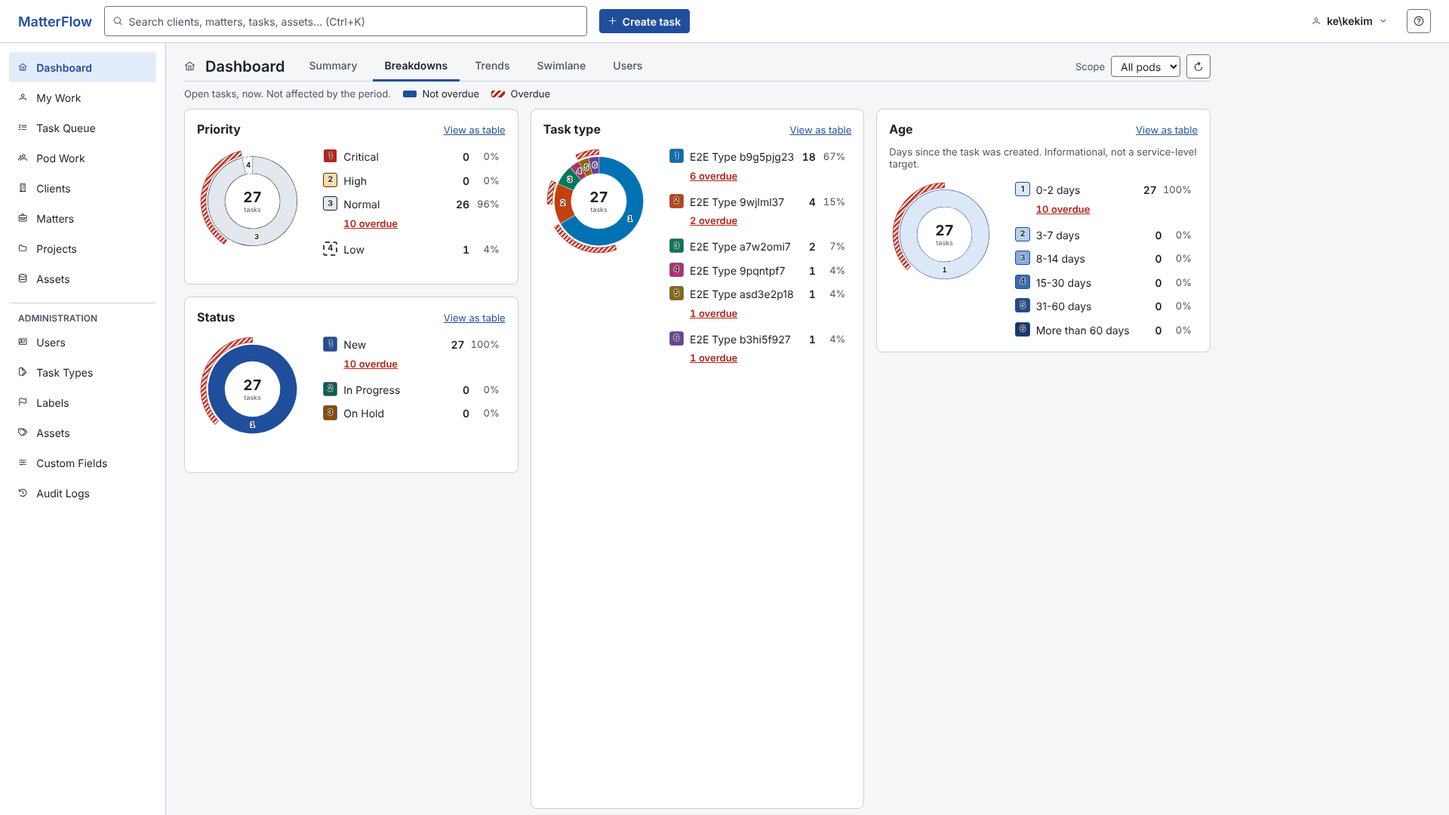
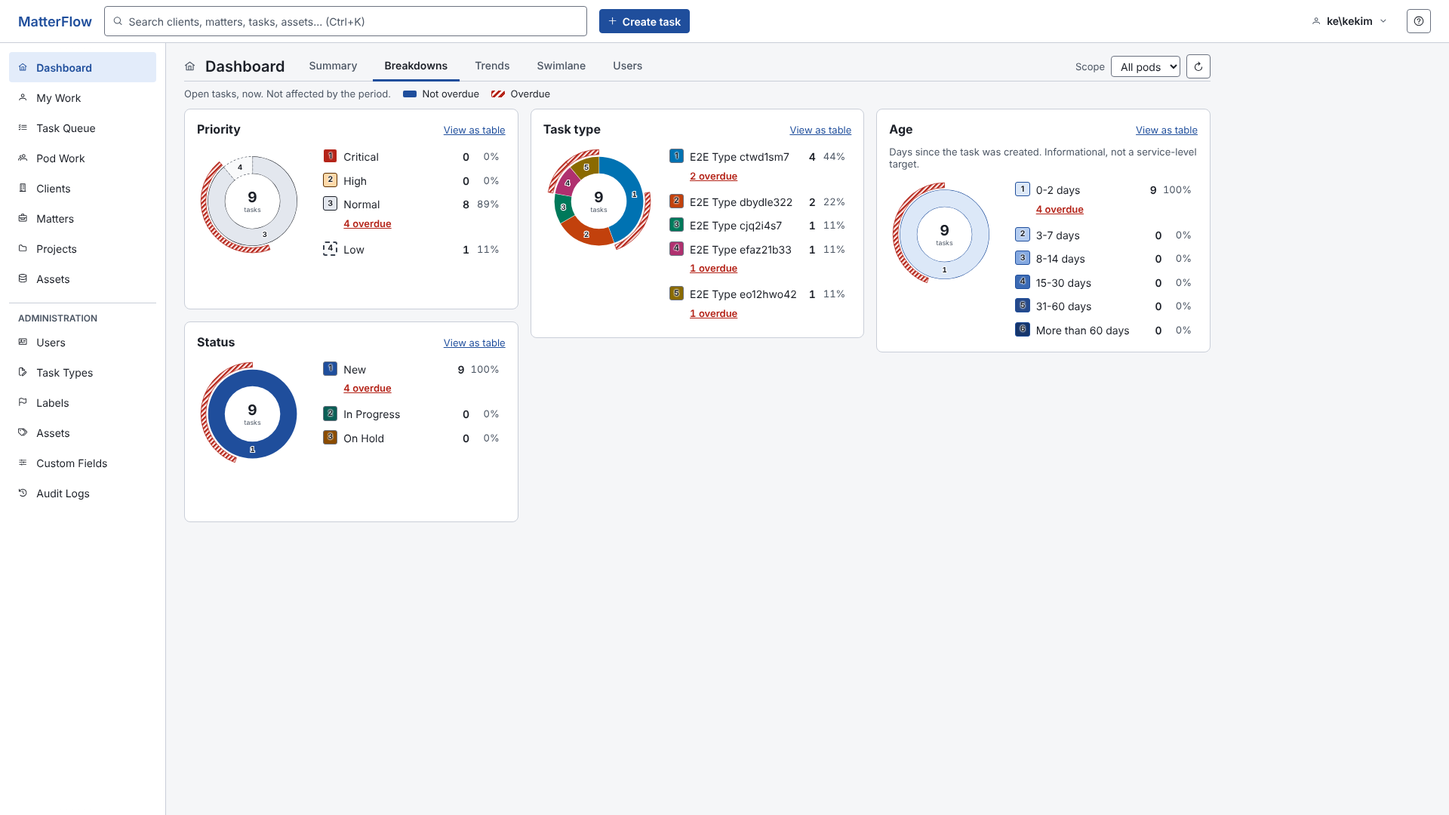
fix(dashboard): Breakdowns Task type card fits its list, pie caption no longer moves the donut (#109 #110 #111 #112 #113 #137)
The Task type card on a wide tab keeps its natural height and is capped at the visible tab height (100cqh of the
scroll region, a size container only in the three-column layout); only its list scrolls inside, under a pinned
title. Priority and Status are not influenced by the list length. The pie caption area is now reserved (three
lines, width independent of its text), so the donut and legend are pixel-stable on hover, focus and leave.
E2E: short and long list heights, unchanged Priority/Status positions, two/one column, pie stability at 1366,
1920 and 375 px.

In plain words: the Task type box on the Breakdowns tab is now only as tall as its list instead of always filling
the screen, and if the list is longer than the screen the box stops at the bottom of the tab and the list scrolls
inside it. In the pie view, hovering over a row no longer makes the chart and the list jump around.

Claude-Session: https://claude.ai/code/session_01GjQ3L6gEego4PwsSfbngaa

diff --git a/frontend/e2e/tests/dashboard-breakdowns.spec.ts b/frontend/e2e/tests/dashboard-breakdowns.spec.ts
@@ -28,6 +28,22 @@ interface Summary {
   aging: (Row & { key: string })[];
 }
 
+/** Pads or cuts the by-task-type rows of the summary the page reads to `count` rows (copies of the first row). */
+async function withTaskTypes(page: Page, count: number) {
+  await page.route(/\/api\/v1\/dashboard\?/, async (route) => {
+    const response = await route.fetch();
+    const json = await response.json();
+    const first = json.byTaskType[0];
+    if (first)
+      json.byTaskType = Array.from({ length: count }, (_, i) => ({
+        ...first,
+        label: `Height type ${i + 1} with a rather long descriptive name`,
+        id: 91000 + i,
+      }));
+    await route.fulfill({ response, json });
+  });
+}
+
 async function openBreakdowns(page: Page) {
   await page.goto('/dashboard?tab=breakdowns');
   // The summary is cached on the server for a few seconds: Refresh reads it now, so the tasks the test has just created are in it.
@@ -282,7 +298,7 @@ test.describe('Dashboard Breakdowns', () => {
         // The tab is narrower than 1300 px (a 1366 px window has a 1122 px tab): two columns, Task type and Age on the right.
         expect(Math.abs(age.x - type.x), `${width} two columns`).toBeLessThan(2);
       }
-      // The Task type card is as tall as the tab; its title stays and the list scrolls inside it when it is long.
+      // The Task type card is as tall as its list, at most as tall as the tab; its title stays and the list scrolls inside it when it is long.
       const body = section.locator('mf-bar-list').nth(2).locator('[data-bd-body]');
       const m = await body.evaluate((e) => ({ sh: e.scrollHeight, ch: e.clientHeight }));
       if (m.sh > m.ch + 1) {
@@ -340,6 +356,86 @@ test.describe('Dashboard Breakdowns', () => {
     // A mouse press inside the list shows no ring.
     await body.click({ position: { x: 2, y: 2 }, force: true });
     expect(await body.evaluate((e) => getComputedStyle(e).outlineStyle)).toBe('none');
+  });
+
+  test('Task type card is as tall as its list (short list) and capped at the tab (long list); Priority and Status do not move', async ({
+    page,
+  }) => {
+    await page.setViewportSize({ width: 1920, height: 1080 });
+    const measure = async (count: number) => {
+      await page.unroute(/\/api\/v1\/dashboard\?/);
+      await withTaskTypes(page, count);
+      const section = await openBreakdowns(page);
+      const card = section.locator('mf-bar-list').nth(2);
+      await expect(card.locator('li')).toHaveCount(count);
+      const tab = (await page.locator('[data-bd-scroll]').boundingBox())!;
+      const box = (await card.boundingBox())!;
+      const status = (await section.locator('mf-bar-list').nth(1).boundingBox())!;
+      const priority = (await section.locator('mf-bar-list').nth(0).boundingBox())!;
+      const content = await card.locator('section').evaluate((el) => {
+        const cs = getComputedStyle(el);
+        const kids = Array.from(el.children) as HTMLElement[];
+        const used = kids.reduce(
+          (n, k) =>
+            n +
+            (k.matches('[data-bd-body]')
+              ? k.scrollHeight
+              : k.getBoundingClientRect().height + parseFloat(getComputedStyle(k).marginBottom)),
+          0,
+        );
+        return used + parseFloat(cs.paddingTop) + parseFloat(cs.paddingBottom) + 2;
+      });
+      const overflowing = await card
+        .locator('[data-bd-body]')
+        .evaluate((e) => e.scrollHeight > e.clientHeight + 1);
+      return { tab, box, status, priority, content, overflowing };
+    };
+
+    const short = await measure(3);
+    expect(
+      Math.abs(short.box.height - short.content),
+      'short list: card fits content',
+    ).toBeLessThan(40);
+    expect(short.box.height, 'short list is clearly shorter than the tab').toBeLessThan(
+      short.tab.height * 0.6,
+    );
+    expect(short.overflowing).toBe(false);
+
+    const long = await measure(30);
+    expect(long.overflowing).toBe(true);
+    expect(long.box.y + long.box.height, 'long list stays inside the tab').toBeLessThanOrEqual(
+      long.tab.y + long.tab.height + 1,
+    );
+    expect(long.box.height, 'long list fills the visible tab').toBeGreaterThan(
+      long.tab.height - 80,
+    );
+    // The length of the Task type list does not move Priority or Status.
+    expect(long.priority).toEqual(short.priority);
+    expect(long.status).toEqual(short.status);
+    expect(
+      await page.evaluate(
+        () => document.documentElement.scrollHeight <= document.documentElement.clientHeight,
+      ),
+    ).toBe(true);
+  });
+
+  test('two columns (1366) and one column (375): the Task type card keeps its natural height with 30 types', async ({
+    page,
+  }) => {
+    await withTaskTypes(page, 30);
+    for (const [width, height] of [
+      [1366, 768],
+      [375, 812],
+    ]) {
+      await page.setViewportSize({ width, height });
+      const section = await openBreakdowns(page);
+      const card = section.locator('mf-bar-list').nth(2);
+      await expect(card.locator('li')).toHaveCount(30);
+      const m = await card
+        .locator('[data-bd-body]')
+        .evaluate((e) => ({ sh: e.scrollHeight, ch: e.clientHeight }));
+      expect(m.sh, `${width}px: list is not clipped`).toBeLessThanOrEqual(m.ch + 1);
+    }
   });
 
   test('Task type names wrap to at most two lines at 1366 and numbers never wrap', async ({
@@ -420,6 +516,74 @@ test.describe('Dashboard Breakdowns', () => {
     await expect(section.locator('mf-bar-list').first().locator('.bars')).toBeVisible();
   });
 
+  test('pie view: nothing moves on hover or focus of a legend row, and the caption shows the same text', async ({
+    page,
+  }) => {
+    for (const [width, height] of [
+      [1366, 768],
+      [1920, 1080],
+      [375, 812],
+    ]) {
+      await page.setViewportSize({ width, height });
+      const section = await openBreakdowns(page);
+      const priority = section.locator('mf-bar-list').first();
+      if ((await priority.locator('[data-pie]').count()) === 0)
+        await priority.locator('[data-view-toggle]').click();
+      await expect(priority.locator('[data-pie]')).toBeVisible();
+      const snap = () =>
+        priority.evaluate((host) => {
+          const r = (e: Element | null) => {
+            const b = e!.getBoundingClientRect();
+            return [b.x, b.y, b.width, b.height];
+          };
+          return {
+            svg: r(host.querySelector('svg')),
+            tip: r(host.querySelector('[data-pie-tip]')),
+            legend: r(host.querySelector('[data-pie-legend]')),
+            rows: Array.from(host.querySelectorAll('[data-pie-legend] li')).map((li) => r(li)),
+          };
+        });
+      const same = (a: number[], b: number[], what: string) => {
+        for (const [i, v] of a.entries()) expect(Math.abs(v - b[i]), what).toBeLessThanOrEqual(0.5);
+      };
+      const check = (
+        a: Awaited<ReturnType<typeof snap>>,
+        b: Awaited<ReturnType<typeof snap>>,
+        what: string,
+      ) => {
+        same(a.svg, b.svg, `${what} donut`);
+        same(a.tip, b.tip, `${what} caption`);
+        same(a.legend, b.legend, `${what} legend`);
+        expect(b.rows.length).toBe(a.rows.length);
+        for (const [i, row] of a.rows.entries()) same(row, b.rows[i], `${what} row ${i}`);
+      };
+      await page.mouse.move(0, 0);
+      const before = await snap();
+      const rows = priority.locator('[data-pie-legend] li');
+      const tip = priority.locator('[data-pie-tip]');
+      for (let i = 0; i < (await rows.count()); i++) {
+        await rows.nth(i).hover();
+        await expect(tip).not.toHaveText('');
+        check(before, await snap(), `${width}px hover row ${i}`);
+        const hovered = (await tip.innerText()).trim();
+        await page.mouse.move(0, 0);
+        await expect(tip).toHaveText('');
+        check(before, await snap(), `${width}px after row ${i}`);
+        const link = rows.nth(i).locator('a.rowlink');
+        if ((await link.count()) > 0) {
+          await link.focus();
+          await expect(tip).toHaveText(hovered);
+          check(before, await snap(), `${width}px focus row ${i}`);
+          await link.evaluate((e) => (e as HTMLElement).blur());
+          await expect(tip).toHaveText('');
+        }
+      }
+      // Back to bars for the next size.
+      while ((await priority.locator('.bars').count()) === 0)
+        await priority.locator('[data-view-toggle]').click();
+    }
+  });
+
   test('a mouse press on the cards area shows no focus ring; the keyboard still does', async ({
     page,
   }) => {
@@ -464,6 +628,13 @@ test.describe('Dashboard Breakdowns', () => {
       }
       for (const t of await section.locator('[data-view-toggle]').all()) await t.click();
     }
+    // A wide window with a long Task type list: the card is capped at the tab and its list scrolls inside.
+    await page.setViewportSize({ width: 1920, height: 1080 });
+    await withTaskTypes(page, 30);
+    await openBreakdowns(page);
+    await page.waitForTimeout(300);
+    await page.screenshot({ path: path.join(SHOTS!, 'bars-1920-long-list.png') });
+    await page.unroute(/\/api\/v1\/dashboard\?/);
     await page.setViewportSize({ width: 1366, height: 900 });
     const section = await openBreakdowns(page);
     await page.addStyleTag({ content: 'html{filter:grayscale(1)}' });

diff --git a/frontend/src/app/features/dashboard/ui/dash-breakdowns-tab.ts b/frontend/src/app/features/dashboard/ui/dash-breakdowns-tab.ts
@@ -34,7 +34,7 @@ export function toBars(items: readonly DashboardBreakdownItem[]): BarItem[] {
  * into not overdue and overdue. The unit and the scope of the numbers are said once in the caption; the region has a visually hidden
  * H2 so the outline stays Breakdowns > Open tasks > Priority / Status / Task type / Age. The cards sit in a grid chosen by the width
  * of the tab (container query): from 1300 px three equal columns (Priority above Status on the left, the Task type card in the middle
- * at the full height of the tab, where its list scrolls inside the card under a pinned title because it grows with every new task type,
+ * as tall as its list but never taller than the visible tab, where its list scrolls inside the card under a pinned title because it grows with every new task type,
  * and Age on the right), two columns (masonry-like, no card is stretched) from 700 px, else one. The DOM and tab order never change
  * with the width: Priority, Status, Task type, Age (the reading order of the three columns). Each card can show a table, bars or a
  * pie; the choice is remembered per card and per user.
@@ -98,7 +98,7 @@ export function toBars(items: readonly DashboardBreakdownItem[]): BarItem[] {
     `
       :host {
         display: block;
-        container-type: inline-size;
+        container: bd / inline-size;
         margin-bottom: var(--mf-s5);
       }
       :host(.mf-fill) {
@@ -164,7 +164,7 @@ export function toBars(items: readonly DashboardBreakdownItem[]): BarItem[] {
         align-items: start;
       }
       /* Two columns flow top to bottom (Priority and Status, then Task type and Age) without empty space inside or between the cards. */
-      @container (min-width: 700px) {
+      @container bd (min-width: 700px) {
         .grid {
           display: block;
           column-count: 2;
@@ -176,7 +176,7 @@ export function toBars(items: readonly DashboardBreakdownItem[]): BarItem[] {
         }
       }
       /* Three equal columns from 1300 px of tab width (the tab keeps its 1360 px reading cap): Priority above Status, Task type, Age. */
-      @container (min-width: 1300px) {
+      @container bd (min-width: 1300px) {
         .grid {
           display: grid;
           column-count: auto;
@@ -206,24 +206,24 @@ export function toBars(items: readonly DashboardBreakdownItem[]): BarItem[] {
           grid-row: 1 / span 2;
         }
       }
-      /* In a fixed page the grid fills the tab and the Task type card takes its full height: its list scrolls inside the card, the title
-         and the caption stay. Shorter than 30rem of room, the whole region scrolls instead. */
+      /* In a fixed page (three columns) the cards take their natural height; nothing is stretched. The Task type card is capped at the
+         visible height of the tab (100cqh of the scroll region, a size container only here): when its list is longer, only the list body
+         scrolls inside the card under the pinned title. Shorter than 12rem of room, the card keeps 12rem and the whole region scrolls.
+         The card spans both rows, which only grows the flexible second row (Status stays where it is). */
       @media (min-width: 768px) and (min-height: 561px) {
-        @container (min-width: 1300px) {
+        @container bd (min-width: 1300px) {
           .bd > .scroll {
             flex: 1 1 0;
             min-height: 0;
+            container: bdscroll / size;
           }
           .grid {
-            flex: 1 1 0;
-            min-height: 30rem;
+            flex: none;
           }
-          /* Its height comes from the grid (the whole tab), never from its own rows: size containment keeps the long list from
-             stretching the rows of Priority and Status. */
           .c-type {
-            align-self: stretch;
-            min-height: 0;
-            contain: size;
+            display: flex;
+            flex-direction: column;
+            max-height: max(100cqh, 12rem);
           }
         }
       }

diff --git a/frontend/src/app/features/dashboard/ui/breakdown-pie.ts b/frontend/src/app/features/dashboard/ui/breakdown-pie.ts
@@ -213,14 +213,25 @@ let nextId = 0;
         stroke: var(--mf-danger);
         stroke-width: 1;
       }
+      /* A reserved caption area: always three lines tall (empty when nothing is hovered) and never wider than the donut's column
+         (width 0 with a minimum of 100%: its text does not take part in the width of the column), so nothing moves when it fills,
+         changes or empties. A longer text is cut after three lines; the legend row and the slice title carry it whole. */
       .tip {
+        box-sizing: content-box;
         margin: 0;
-        min-height: 1.25em;
-        max-width: 100%;
+        width: 0;
+        min-width: 100%;
+        height: 3.75em;
+        line-height: 1.25;
         text-align: center;
         color: var(--mf-text);
         font-size: var(--mf-fs-sm);
         overflow-wrap: anywhere;
+        overflow: hidden;
+        display: -webkit-box;
+        -webkit-box-orient: vertical;
+        -webkit-line-clamp: 3;
+        line-clamp: 3;
       }
       .legend {
         margin: 0;

diff --git a/frontend/src/app/features/dashboard/ui/bar-list.ts b/frontend/src/app/features/dashboard/ui/bar-list.ts
@@ -220,12 +220,13 @@ let nextId = 0;
       :host {
         display: block;
       }
-      /* The card is a column: the title row stays where it is and only the body scrolls, when the card is given a height (the Task type
-         card on a wide Breakdowns tab, where the list can grow with every new task type). */
+      /* The card is a column: the title row stays where it is and only the body scrolls, when the card is given a maximum height (the Task
+         type card on a wide Breakdowns tab, where the list can grow with every new task type). */
       .card {
         display: flex;
         flex-direction: column;
         height: 100%;
+        min-height: 0;
         box-sizing: border-box;
         padding: var(--mf-s4);
         background: var(--mf-surface);

diff --git a/docs/ux/ux-spec.md b/docs/ux/ux-spec.md
@@ -305,7 +305,7 @@ The page is one fixed-height screen (see Page chrome). The three Summary lists u
 
 **Tabs (epic #68).** The page has five tabs (WAI-ARIA tabs, `?tab=` in the address, never remembered): Summary, Breakdowns, Trends, Swimlane and Users, each shown only with its own permission (see Permission above). Swimlane is specified below; Users (team workload and Coverage) above and in `docs/ux/dashboard-users/README.md`.
 
-**Breakdowns tab (epic #85).** One caption, "Open tasks, now. Not affected by the period.", with the legend (Not overdue / Overdue), then four cards, each with one title (H3 under a visually hidden H2 "Open tasks"): Priority, Task type, Status and Age. Every bar is split into not overdue and overdue: the bar length is the row total, the overdue segment (existing danger tokens, hatched, 2 px minimum) is proportional and links to the Task Queue with the row's filter plus `overdue=true`, and "N overdue" (hidden at 0) is the same link as text; the row link to the total is unchanged and "View as table" adds an Overdue column. Overdue is the Overdue tile's definition (ASAP never overdue, closed tasks excluded), so the overdue of the rows of each card adds up to the tile. Age has six buckets (constants in `DashboardRules.AgingBands`, Age = whole days since creation in the viewer's zone): 0-2, 3-7, 8-14, 15-30, 31-60 and more than 60 days; they add up to Open, each links with `createdFrom`/`createdTo`, the caption "not a service-level target" stays. Low priority is drawn with a dashed 2 px outline and a lighter fill, Normal with a solid 1 px outline (no new colour token). Grid by the width of the tab (container query; the tab keeps its 1360 px cap), owner feedback v2 (issues #109-#113): from 1300 px three equal columns, Priority above Status on the left, Task type in the middle at the full height of the tab (its list scrolls inside the card under a pinned title, as the list grows with every new task type; the scrolling body is a named focusable region only while it overflows), Age on the right; two columns flowing top to bottom from 700 px, one below. The DOM and tab order are Priority, Status, Task type, Age at every width. A Task type name wraps to at most two lines (three on a phone), the full name is the `title` and the link's label, numbers never wrap. Every card has three views, walked by one link in this order: table, bars, pie, table (the link names the next view: "View as pie" on the bars, "View as table" on the pie, "View as bars" on the table); the default is bars and the choice is remembered per card and per user in this browser (`mf.dashboard.breakdowns.view.v1.<user>.<card>`, guarded), never in the address. The pie (`mf-breakdown-pie`, hand-written SVG, loaded only when asked for) is a donut with the total in the middle, slices in the bar colours (task types use the categorical palette of the Trends lines), at most eight slices with the rest grouped as "Other", every slice numbered and outlined (Low dashed), the overdue part a hatched segment of a thin outer ring, and a legend of real text (number, name, count, share, "N overdue", the same Task Queue links as the bars); hovering or focusing a legend row shows its text in the middle and under the pie. The SVG is one image with a text summary; forced colours and reduced motion are respected. A mouse press on the cards region shows no focus ring (`:focus-visible` for the keyboard only, `PointerFocus`). API: `overdue` on every breakdown row and aging bucket of `GET /api/v1/dashboard` (additive); the age bucket list grew from four to six. Screenshots: `docs/ux/dashboard-review-2/fixes/wp7/`.
+**Breakdowns tab (epic #85).** One caption, "Open tasks, now. Not affected by the period.", with the legend (Not overdue / Overdue), then four cards, each with one title (H3 under a visually hidden H2 "Open tasks"): Priority, Task type, Status and Age. Every bar is split into not overdue and overdue: the bar length is the row total, the overdue segment (existing danger tokens, hatched, 2 px minimum) is proportional and links to the Task Queue with the row's filter plus `overdue=true`, and "N overdue" (hidden at 0) is the same link as text; the row link to the total is unchanged and "View as table" adds an Overdue column. Overdue is the Overdue tile's definition (ASAP never overdue, closed tasks excluded), so the overdue of the rows of each card adds up to the tile. Age has six buckets (constants in `DashboardRules.AgingBands`, Age = whole days since creation in the viewer's zone): 0-2, 3-7, 8-14, 15-30, 31-60 and more than 60 days; they add up to Open, each links with `createdFrom`/`createdTo`, the caption "not a service-level target" stays. Low priority is drawn with a dashed 2 px outline and a lighter fill, Normal with a solid 1 px outline (no new colour token). Grid by the width of the tab (container query; the tab keeps its 1360 px cap), owner feedback v2 (issues #109-#113): from 1300 px three equal columns, Priority above Status on the left, Task type in the middle, exactly as tall as its list when that fits the visible height of the tab and otherwise capped at that height (`max-height: 100cqh` of the scroll region), so only its list scrolls inside the card under a pinned title, as the list grows with every new task type (the scrolling body is a named focusable region only while it overflows); no card is stretched, and the length of that list never moves Priority or Status, Age on the right; two columns flowing top to bottom from 700 px, one below. The DOM and tab order are Priority, Status, Task type, Age at every width. A Task type name wraps to at most two lines (three on a phone), the full name is the `title` and the link's label, numbers never wrap. Every card has three views, walked by one link in this order: table, bars, pie, table (the link names the next view: "View as pie" on the bars, "View as table" on the pie, "View as bars" on the table); the default is bars and the choice is remembered per card and per user in this browser (`mf.dashboard.breakdowns.view.v1.<user>.<card>`, guarded), never in the address. The pie (`mf-breakdown-pie`, hand-written SVG, loaded only when asked for) is a donut with the total in the middle, slices in the bar colours (task types use the categorical palette of the Trends lines), at most eight slices with the rest grouped as "Other", every slice numbered and outlined (Low dashed), the overdue part a hatched segment of a thin outer ring, and a legend of real text (number, name, count, share, "N overdue", the same Task Queue links as the bars); hovering or focusing a legend row shows its text in the middle and in a caption under the pie whose area is reserved (three lines, same size when empty), so the donut and the legend never move on hover, focus or leave. The SVG is one image with a text summary; forced colours and reduced motion are respected. A mouse press on the cards region shows no focus ring (`:focus-visible` for the keyboard only, `PointerFocus`). API: `overdue` on every breakdown row and aging bucket of `GET /api/v1/dashboard` (additive); the age bucket list grew from four to six. Screenshots: `docs/ux/dashboard-review-2/fixes/wp7/`.
 
 **Trends tab (UX review 2, epic #86).** One card "Tasks over time" with the Period and its caption (the resolved dates) and, from 1000 px, the Task Types list beside the chart. Two stacked panels share one x scale and one cursor: flows (a segmented measure) and backlog (`Open and overdue` by default, `Open`, `Overdue`). "Open at end of day" means created by the end of that day and not Completed or Cancelled by then (no status replay). The y axis is fitted to the data in round steps (a peak of 21 gives 25). "All task types" is hidden while task types are compared and "Compare task types" is never a dead end. Lines are labelled at their right end (at most four per panel, nudged apart), markers sit only at the ends beyond 14 points, ticks fall on Mondays with their dates, up to 31 days there is one point per day and beyond that one per week (Monday to Sunday: flows summed, stocks at the end of the week, "Week of" tooltips and table). One title per panel and per tab. On a phone the chart is 16:9 at the width the shell leaves (271 px at 375 px because of the 56 px shell rail, issue #121, left open), the Task Types list is a disclosure and a tap opens the tooltip. A table view serves assistive technology. Details: `docs/ux/dashboard-trends-types/README.md`.
 

diff --git a/docs/ux/dashboard-review-2/delivery-plan.md b/docs/ux/dashboard-review-2/delivery-plan.md
@@ -226,4 +226,4 @@ Closed unless stated. The SHA is the commit that delivered the issue (follow-up 
 - WP6 Summary deltas and Technician view (#102 S3, #108 S9): `GET /api/v1/dashboard` additive and nullable: `overdueYesterday`, `openYesterday` (the Trends snapshot of yesterday for the same scope and zone: created by the end of the viewer's yesterday, not Completed or Cancelled by then, a due moment that had passed; no replay; three scalar counts in the headline statement, no SQL script), `completedPrevious`, `createdPrevious` and `previousPeriod { kind, from, to }` (equal span directly before the period, or the same days of last month for This month; `DashboardPeriods.Previous`), `mine { open, overdue }` only for `Dashboard.ViewUnassigned` without `Dashboard.ViewSummary`; a value is null (no line) when nothing existed at the baseline (OpenAPI and client regenerated). Tiles: glyph, signed number and words ("▲ +8 vs yesterday", "▼ -3 vs yesterday", "= no change vs yesterday", "+14 vs previous 30 days", "vs same days last month") on Overdue, Open, Completed and Created only, screen-reader sentence, tooltip with the baseline and the Trends caveat, attention colour only for Overdue going up (`dashboard-deltas.ts`, `stat-tile.ts`). Technician: H1 "Unassigned work" (single tab, queue only), own-work line with link to My Work, Priority and Task type filters from the column-filter foundation (`ListFilters`, `mf-filter-control`, `mf-filter-chips`, new `commaList` option; address `sprio` and `stype`, moved from the Users tab's parameters to Summary's), queue read from the Task Queue with `priority` and `type` so count, "Showing N of M" and "View all" equal the Task Queue, empty states through `mf-dash-state` ("No unassigned tasks match these filters." + Clear filters, "Nothing is unassigned in <scope>." + Show all pods), no-pod note; the strip is lazy (`dash-technician-bar.ts`, initial bundle unchanged at 622.43 kB). Small fixes: the tab list scrolls inside itself (`contain: inline-size`, `revealInList` instead of `scrollIntoView`; could not reproduce the 9 px at 320 px on this base in three combined runs and a 16-fold stress run, so it is hardened and covered by `dashboard-shell.spec.ts` at 320 and 375), `TaskQueueColumnFilterTests` Updated range uses its own database with a fixed host clock, `dashboard-fixed-height.spec.ts` seeds one task in nine task types for the Breakdowns "cards scroll" test, the shell five-minute timer test waits for its first read. Tests: `DashboardDeltasApiTests` (88 cases: four fixed instants, three zones, pod scopes, null baselines, technician with ViewUnassigned alone sees only own counts), `DashboardPeriodsTests.Previous`, unit (`dashboard-deltas`, `dash-technician`, `dash-state`, `dash-tabs`, page), e2e `dashboard-summary-deltas.spec.ts` (axe at 1366, 1920, 375) and the updated audit, permissions, shell and fixed-height specs. Screenshots: `fixes/wp6/`.
 - WP9b Swimlane phone layout and verification (#125, #126; #93 verified here): frontend only. Below 900 px (`LANE_SWITCHER_QUERY`) a tablist "Swimlane lanes" (lane name over count, plain text; four equal tabs that fit the 271 px the shell leaves at 375) replaces the four lanes and shows ONE lane in a labelled tabpanel; In Progress by default, `lane=new|hold|done` in the address only when not the default (added to `DASH_DEFAULTS`), the last choice kept in `sessionStorage`; roving tabindex, arrows wrap, Home and End. Natural height and a sticky switcher while the page scrolls (under 768 x 561), the whole window height in the fixed-height page (768 to 899 px: one scroll region); the toolbar is Search, Filters and "..." (Group and Sort inside the Filters panel, counted on the button): two rows at 375, one at 768. Dashboard tab row at 375: the strip keeps `role="tablist"` and its keyboard, scrolls, and shows a fade and chevron at the edge that has more tabs (`data-more-start`/`-end`; a `ResizeObserver` on the strip). Big screens (measured, `fixes/wp9b/README.md`): 1920 x 1080 board 1652 x 912 px filling the width and height, 17 whole compact cards per lane (target 14), 5 whole comfortable cards (target 6: NOT met, gap reported on #87); above 2200 px a lane is at most 480 px wide, left aligned. #93: caps measured at 1366, 1600, 2560 for Summary, Breakdowns, Trends, Swimlane, Users and Coverage, layout shift on tab switches 0.0000 at 1920. Tests: unit (`dash-swimlane-tab`, `swimlane-model`, `dash-tabs`, `dash-url-state`), e2e `swimlane-phone.spec.ts` (375, 768, 1024, 812x375, axe at 375, 768, 1366, 1920, 2560, tab row at 375) and the swimlane and scope specs adapted (`lane=new` below 900 px). Screenshots: `fixes/wp9b/`.
 
-**Status note, WP7 Breakdowns v2 (owner feedback on #109-#113, Dashboard Breakdowns).** Three-column layout at 1300 px and up (Priority above Status, Task type scrolling inside its card, Age), Task type names at most two lines, and a third "View as pie" view in the cycle table, bars, pie (remembered per card and user). Frontend only. Screenshots: `docs/ux/dashboard-review-2/fixes/breakdowns-v2/`.
+**Status note, WP7 Breakdowns v2 (owner feedback on #109-#113, Dashboard Breakdowns).** Three-column layout at 1300 px and up (Priority above Status, Task type scrolling inside its card, Age), Task type names at most two lines, and a third "View as pie" view in the cycle table, bars, pie (remembered per card and user). Follow-up (#109-#113, #137): the Task type card is as tall as its list and capped at the visible tab height (only its list scrolls), and the pie caption area is reserved so nothing moves on hover or focus. Frontend only. Screenshots: `docs/ux/dashboard-review-2/fixes/breakdowns-v2/` (`bars-1920.png` short list, `bars-1920-long-list.png` long list).
